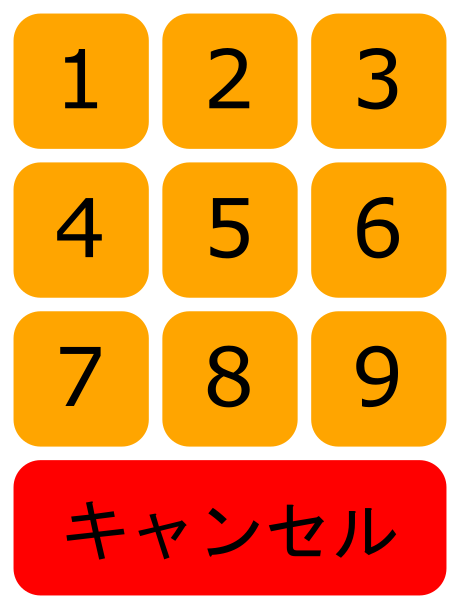
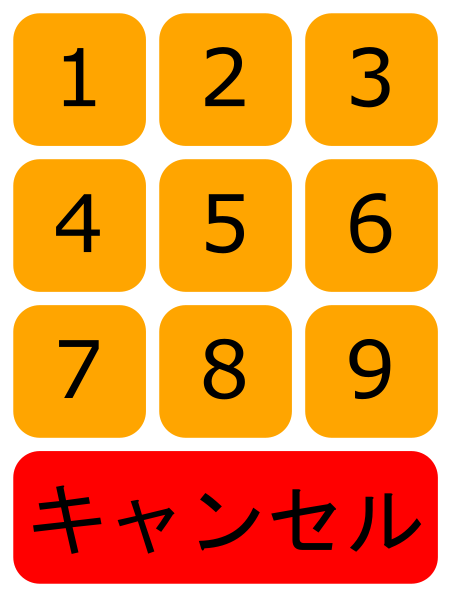
:construction: update images

diff --git a/src/LINE.js b/src/LINE.js
@@ -79,99 +79,99 @@ class LINE {
       baseUrl: `https://${Config.BASE_URL}/images/keypadWithCancel`,
       altText: 'This is amount selector. type number',
       baseSize: {
-        width: 340,
-        height: 450,
+        width: 1040,
+        height: 1350,
       },
       actions: [
         {
           type: 'message',
           text: '1',
           area: {
-            x: 10,
-            y: 10,
-            width: 100,
-            height: 100,
+            x: 30,
+            y: 30,
+            width: 300,
+            height: 300,
           },
         }, {
           type: 'message',
           text: '2',
           area: {
-            x: 120,
-            y: 10,
-            width: 100,
-            height: 100,
+            x: 360,
+            y: 30,
+            width: 300,
+            height: 300,
           },
         }, {
           type: 'message',
           text: '3',
           area: {
-            x: 230,
-            y: 10,
-            width: 100,
-            height: 100,
+            x: 690,
+            y: 30,
+            width: 300,
+            height: 300,
           },
         }, {
           type: 'message',
           text: '4',
           area: {
-            x: 10,
-            y: 120,
-            width: 100,
-            height: 100,
+            x: 30,
+            y: 360,
+            width: 300,
+            height: 300,
           },
         }, {
           type: 'message',
           text: '5',
           area: {
-            x: 120,
-            y: 120,
-            width: 100,
-            height: 100,
+            x: 360,
+            y: 360,
+            width: 300,
+            height: 300,
           },
         }, {
           type: 'message',
           text: '6',
           area: {
-            x: 230,
-            y: 120,
-            width: 100,
-            height: 100,
+            x: 690,
+            y: 360,
+            width: 300,
+            height: 300,
           },
         }, {
           type: 'message',
           text: '7',
           area: {
-            x: 10,
-            y: 230,
-            width: 100,
-            height: 100,
+            x: 30,
+            y: 690,
+            width: 300,
+            height: 300,
           },
         }, {
           type: 'message',
           text: '8',
           area: {
-            x: 120,
-            y: 230,
-            width: 100,
-            height: 100,
+            x: 360,
+            y: 690,
+            width: 300,
+            height: 300,
           },
         }, {
           type: 'message',
           text: '9',
           area: {
-            x: 230,
-            y: 230,
-            width: 100,
-            height: 100,
+            x: 690,
+            y: 690,
+            width: 300,
+            height: 300,
           },
         }, {
           type: 'message',
           text: 'キャンセル',
           area: {
-            x: 10,
-            y: 340,
-            width: 320,
-            height: 100,
+            x: 30,
+            y: 1020,
+            width: 960,
+            height: 300,
           },
         },
       ],
@@ -184,108 +184,108 @@ class LINE {
       baseUrl: `https://${Config.BASE_URL}/images/keypadWithZero`,
       altText: 'This is amount selector. type number',
       baseSize: {
-        width: 340,
-        height: 450,
+        width: 1040,
+        height: 1350,
       },
       actions: [
         {
           type: 'message',
           text: '1',
           area: {
-            x: 10,
-            y: 10,
-            width: 100,
-            height: 100,
+            x: 30,
+            y: 30,
+            width: 300,
+            height: 300,
           },
         }, {
           type: 'message',
           text: '2',
           area: {
-            x: 120,
-            y: 10,
-            width: 100,
-            height: 100,
+            x: 360,
+            y: 30,
+            width: 300,
+            height: 300,
           },
         }, {
           type: 'message',
           text: '3',
           area: {
-            x: 230,
-            y: 10,
-            width: 100,
-            height: 100,
+            x: 690,
+            y: 30,
+            width: 300,
+            height: 300,
           },
         }, {
           type: 'message',
           text: '4',
           area: {
-            x: 10,
-            y: 120,
-            width: 100,
-            height: 100,
+            x: 30,
+            y: 360,
+            width: 300,
+            height: 300,
           },
         }, {
           type: 'message',
           text: '5',
           area: {
-            x: 120,
-            y: 120,
-            width: 100,
-            height: 100,
+            x: 360,
+            y: 360,
+            width: 300,
+            height: 300,
           },
         }, {
           type: 'message',
           text: '6',
           area: {
-            x: 230,
-            y: 120,
-            width: 100,
-            height: 100,
+            x: 690,
+            y: 360,
+            width: 300,
+            height: 300,
           },
         }, {
           type: 'message',
           text: '7',
           area: {
-            x: 10,
-            y: 230,
-            width: 100,
-            height: 100,
+            x: 30,
+            y: 690,
+            width: 300,
+            height: 300,
           },
         }, {
           type: 'message',
           text: '8',
           area: {
-            x: 120,
-            y: 230,
-            width: 100,
-            height: 100,
+            x: 360,
+            y: 690,
+            width: 300,
+            height: 300,
           },
         }, {
           type: 'message',
           text: '9',
           area: {
-            x: 230,
-            y: 230,
-            width: 100,
-            height: 100,
+            x: 690,
+            y: 690,
+            width: 300,
+            height: 300,
           },
         }, {
           type: 'message',
           text: '0',
           area: {
-            x: 10,
-            y: 340,
-            width: 210,
-            height: 100,
+            x: 30,
+            y: 1020,
+            width: 630,
+            height: 300,
           },
         }, {
           type: 'message',
           text: 'キャンセル',
           area: {
-            x: 230,
-            y: 340,
-            width: 100,
-            height: 100,
+            x: 690,
+            y: 1020,
+            width: 300,
+            height: 300,
           },
         },
       ],
@@ -345,6 +345,9 @@ LINE.Builder = class Builder {
     this.messages = [];
   }
 
+  /**
+   * @returns {LINE.Builder}
+   */
   addTextMessage(text) {
     this.messages.push({
       type: 'text',
@@ -353,26 +356,41 @@ LINE.Builder = class Builder {
     return this;
   }
 
+  /**
+   * @returns {LINE.Builder}
+   */
   addKeyPadWithCancel() {
     this.messages.push(LINE.keypadWithCancel);
     return this;
   }
 
+  /**
+   * @returns {LINE.Builder}
+   */
   addKeyPadWithZero() {
     this.messages.push(LINE.keypadWithZero);
     return this;
   }
 
+  /**
+   * @returns {LINE.Builder}
+   */
   addRichMenu() {
     this.messages.push(LINE.richmenu);
     return this;
   }
 
+  /**
+   * @returns {LINE.Builder}
+   */
   addProductCarousel(products, showAdd, showDelete, showSelect) {
     this.messages.push(LINE.productCarousel(products, showAdd, showDelete, showSelect));
     return this;
   }
 
+  /**
+   * @returns {LINE.Builder}
+   */
   addConfirm(text, yes, no) {
     const yesText = yes || 'はい';
     const noText = no || 'いいえ';
@@ -399,6 +417,9 @@ LINE.Builder = class Builder {
     return this;
   }
 
+  /**
+   * @returns {LINE.Builder}
+   */
   send() {
     return LINE.$http({
       url: '/message/reply',

diff --git a/src/main.js b/src/main.js
@@ -27,6 +27,7 @@ router.get('/images/:image/:width', async (ctx) => {
   const path = `${__dirname}/../public/images/${ctx.params.image}/${ctx.params.width}.png`;
   const image = await fs.readFile(path).catch(() => undefined);
   if (image) {
+    ctx.response.set('Cache-Control', 'private, no-cache, no-store');
     ctx.type = 'image/png';
     ctx.body = image;
   } else {

diff --git a/publicImages.py b/publicImages.py
@@ -1,0 +1,18 @@
+import os
+import shutil
+import subprocess
+
+sizes = [240, 300, 460, 700, 1040, 2500]
+
+if __name__ == '__main__':
+    imagesFolder = f'{os.path.dirname(os.path.abspath(__file__))}/public/images'
+    filename = input('Enter filename (without ext): ')
+    if os.path.exists(f'{imagesFolder}/{filename}.svg'):
+        try:
+            os.mkdir(f'{imagesFolder}/{filename}')
+        except OSError:
+            shutil.rmtree(f'{imagesFolder}/{filename}', True)
+        for size in sizes:
+            subprocess.call(['inkscape', '-z', '-e', f'{imagesFolder}/{filename}/{size}.png', '-w', str(size), f'{imagesFolder}/{filename}.svg'])
+    else:
+        print('ファイルが見つかりません')
